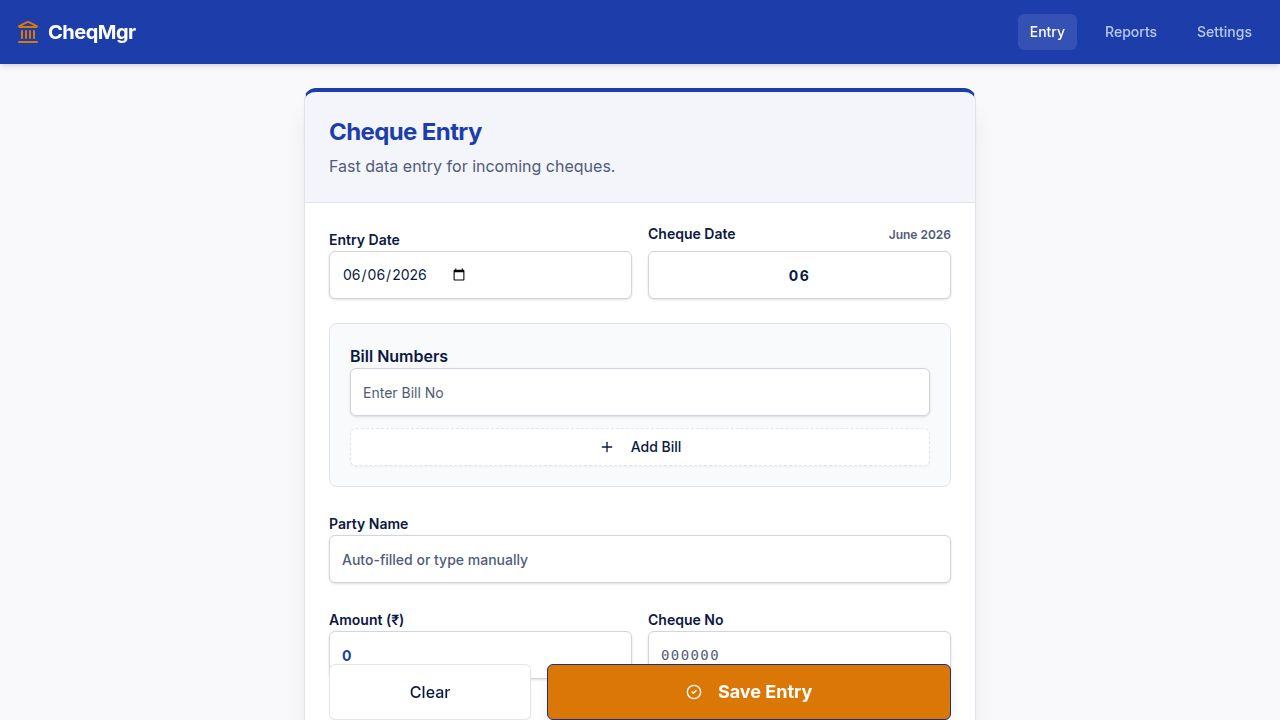
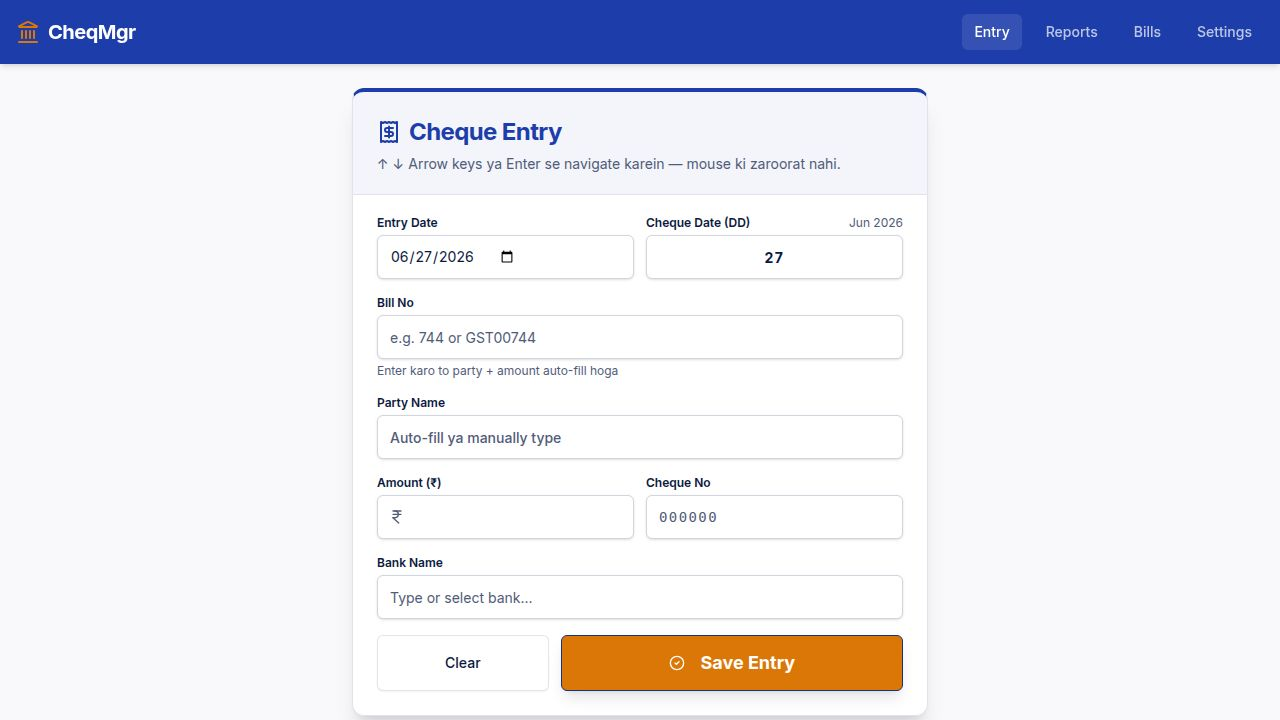
Add discrepancy tracking for cheque entries and improve import functionality
Introduces the `discrepancyAmt` field to cheque entries and enhances the import process in `Settings.tsx` by splitting amounts proportionally and batching Supabase lookups. Updates API routes and TypeScript definitions to support the new field. Adds visual highlighting for discrepant entries on the Reports page.

Replit-Commit-Author: Agent
Replit-Commit-Session-Id: fb7fd8ad-ce41-4812-8eef-e34c056f3a73
Replit-Commit-Checkpoint-Type: full_checkpoint
Replit-Commit-Event-Id: a9b0fe0a-8ae3-4242-99d4-801ea9e3cda0
Replit-Commit-Screenshot-Url: https://storage.googleapis.com/screenshot-production-us-central1/d17cd913-0599-41b9-90f8-fe2f33843357/fb7fd8ad-ce41-4812-8eef-e34c056f3a73/RsZwXqk
Replit-Helium-Checkpoint-Created: true

diff --git a/artifacts/cheque-manager/src/pages/Settings.tsx b/artifacts/cheque-manager/src/pages/Settings.tsx
@@ -1,4 +1,6 @@
 import { useState, useRef } from "react";
+import { format } from "date-fns";
+import { batchLookupOutstandingAmounts, updateBillFromImport } from "@/lib/supabase";
 import { useGetSettings, useUpdateSettings, useListBanks, useCreateBank, useDeleteBank, getListBanksQueryKey } from "@workspace/api-client-react";
 import { useQueryClient } from "@tanstack/react-query";
 import { Card, CardContent, CardHeader, CardTitle, CardDescription } from "@/components/ui/card";
@@ -177,7 +179,31 @@ export default function Settings() {
     }
   };
 
-  const saveEntry = async (entry: ParsedImportEntry): Promise<'saved' | 'duplicate' | 'error'> => {
+  const splitAmounts = (
+    billNos: string[],
+    chequeTotal: number,
+    outstandingMap: Map<string, number>
+  ): { billNo: string; amount: number }[] => {
+    if (billNos.length === 1) return [{ billNo: billNos[0], amount: chequeTotal }];
+    const outs = billNos.map(b => ({ billNo: b, outstanding: outstandingMap.get(b) ?? 0 }));
+    const totalOut = outs.reduce((s, b) => s + b.outstanding, 0);
+    let rem = chequeTotal;
+    return outs.map((b, i) => {
+      if (i === outs.length - 1) return { billNo: b.billNo, amount: Math.round(rem * 100) / 100 };
+      const amt = totalOut > 0
+        ? Math.round(chequeTotal * b.outstanding / totalOut * 100) / 100
+        : Math.round(chequeTotal / outs.length * 100) / 100;
+      rem -= amt;
+      return { billNo: b.billNo, amount: amt };
+    });
+  };
+
+  const saveSingleBillEntry = async (
+    entry: ParsedImportEntry,
+    billNo: string,
+    amount: number,
+    discrepancyAmt: number
+  ): Promise<'saved' | 'duplicate' | 'error'> => {
     try {
       const res = await fetch('/api/cheque-entries', {
         method: 'POST',
@@ -186,10 +212,11 @@ export default function Settings() {
           entryDate: entry.entryDate,
           chequeDate: entry.chequeDate,
           partyName: entry.partyName,
-          billNos: entry.billNos,
-          chequeAmount: entry.chequeAmount,
+          billNos: [billNo],
+          chequeAmount: amount,
           chequeNo: entry.chequeNo,
           bankName: entry.bankName,
+          discrepancyAmt,
         }),
       });
       if (res.status === 409) return 'duplicate';
@@ -208,19 +235,46 @@ export default function Settings() {
 
     const result: ImportResult = { saved: 0, duplicates: 0, errors: 0, banksCreated: 0 };
     const existingBankNames = new Set<string>((banks ?? []).map((b: { name: string }) => b.name.toUpperCase()));
-    const total = importPreview.entries.length;
+    const entries = importPreview.entries;
+    const total = entries.length;
     setImportTotal(total);
 
+    const allBillNos = [...new Set(entries.flatMap(e => e.billNos))];
+    let outstandingMap = new Map<string, number>();
+    try {
+      outstandingMap = await batchLookupOutstandingAmounts(allBillNos);
+    } catch (e) {
+      toast({ variant: "destructive", title: "Supabase lookup failed", description: String(e) });
+    }
+
     for (let i = 0; i < total; i++) {
-      const entry = importPreview.entries[i];
+      const entry = entries[i];
 
       const created = await ensureBankExists(entry.bankName, existingBankNames);
       if (created) result.banksCreated++;
 
-      const status = await saveEntry(entry);
-      if (status === 'saved') result.saved++;
-      else if (status === 'duplicate') result.duplicates++;
-      else result.errors++;
+      const splits = splitAmounts(entry.billNos, entry.chequeAmount, outstandingMap);
+      const totalOut = entry.billNos.reduce((s, b) => s + (outstandingMap.get(b) ?? 0), 0);
+      const discrepancyAmt = Math.round((entry.chequeAmount - totalOut) * 100) / 100;
+
+      for (const split of splits) {
+        const status = await saveSingleBillEntry(entry, split.billNo, split.amount, discrepancyAmt);
+        if (status === 'saved') {
+          result.saved++;
+          try {
+            await updateBillFromImport(split.billNo, {
+              cheque_date: entry.chequeDate,
+              bank_name: entry.bankName,
+              cheque_no: entry.chequeNo,
+              cheque_amount: split.amount,
+              collected_amount: split.amount,
+              payment_mode: 'Cheque',
+              payment_date: format(new Date(entry.entryDate), 'dd/MM/yyyy'),
+            });
+          } catch { /* Supabase update failures are non-fatal */ }
+        } else if (status === 'duplicate') result.duplicates++;
+        else result.errors++;
+      }
 
       setImportProgress(i + 1);
     }

diff --git a/artifacts/cheque-manager/src/lib/supabase.ts b/artifacts/cheque-manager/src/lib/supabase.ts
@@ -82,3 +82,35 @@ export async function updateBillInSupabase(
     .eq('bill_no', billNo);
   if (error) throw error;
 }
+
+export async function batchLookupOutstandingAmounts(billNos: string[]): Promise<Map<string, number>> {
+  if (billNos.length === 0) return new Map();
+  const { data } = await supabase
+    .from('bills')
+    .select('bill_no, outstanding_amount')
+    .in('bill_no', billNos);
+  const map = new Map<string, number>();
+  for (const row of data ?? []) {
+    if (row.bill_no != null) map.set(String(row.bill_no), row.outstanding_amount ?? 0);
+  }
+  return map;
+}
+
+export async function updateBillFromImport(
+  billNo: string,
+  data: {
+    cheque_date: string;
+    bank_name: string;
+    cheque_no: string;
+    cheque_amount: number;
+    collected_amount: number;
+    payment_mode: string;
+    payment_date: string;
+  }
+): Promise<void> {
+  const { error } = await supabase
+    .from('bills')
+    .update(data)
+    .eq('bill_no', billNo);
+  if (error) console.warn('Supabase bill update warning:', billNo, error.message);
+}

diff --git a/artifacts/cheque-manager/src/pages/Reports.tsx b/artifacts/cheque-manager/src/pages/Reports.tsx
@@ -18,6 +18,7 @@ interface GroupedRow {
   billNos: string;
   partyNames: string;
   rowCount: number;
+  isDiscrepant: boolean;
 }
 
 const fmtDate = (d: string | null) => {
@@ -56,6 +57,11 @@ const groupRows = (rows: SupaBill[]): GroupedRow[] => {
       const totalAmt = grp.reduce((s, r) => s + Number(r.cheque_amount ?? 0), 0);
       const billNos = grp.map(r => extractBillNum(r.bill_no)).filter(Boolean).join("+");
       const parties = [...new Set(grp.map(r => r.party_name).filter(Boolean))].join(", ");
+      const isDiscrepant = grp.some(r =>
+        r.outstanding_amount != null &&
+        r.cheque_amount != null &&
+        Math.abs(Number(r.cheque_amount) - Number(r.outstanding_amount)) > 0.01
+      );
       return {
         chequeDate: first.cheque_date,
         chequeNo: first.cheque_no ?? "—",
@@ -64,6 +70,7 @@ const groupRows = (rows: SupaBill[]): GroupedRow[] => {
         billNos,
         partyNames: parties,
         rowCount: grp.length,
+        isDiscrepant,
       };
     })
     .sort((a, b) => {
@@ -103,7 +110,7 @@ export default function Reports() {
       while (true) {
         let q = supabase
           .from("bills")
-          .select("cheque_no,cheque_date,bank_name,cheque_amount,bill_no,party_name,bill_net_amt,payment_mode,payment_date")
+          .select("cheque_no,cheque_date,bank_name,cheque_amount,bill_no,party_name,bill_net_amt,payment_mode,payment_date,outstanding_amount")
           .not("cheque_no", "is", null)
           .ilike("payment_mode", "%cheque%")
           .order("cheque_date", { ascending: false })
@@ -117,7 +124,7 @@ export default function Reports() {
 
         const { data, error } = await q;
         if (error) throw error;
-        allRows = allRows.concat(data ?? []);
+        allRows = allRows.concat((data ?? []) as SupaBill[]);
         if (!data || data.length < PAGE_SIZE) break;
         from += PAGE_SIZE;
       }
@@ -280,7 +287,7 @@ export default function Reports() {
                 </TableHeader>
                 <TableBody>
                   {grouped.map((row, i) => (
-                    <TableRow key={i} className="print:border-b print:border-gray-400">
+                    <TableRow key={i} className={`print:border-b print:border-gray-400 ${row.isDiscrepant ? "text-red-600 font-semibold bg-red-50 print:text-red-700" : ""}`}>
                       <TableCell className="py-2 print:py-1">{fmtDate(row.chequeDate)}</TableCell>
                       <TableCell className="py-2 print:py-1 text-right font-bold text-primary print:text-black">
                         {fmtINR(row.chequeAmt)}

diff --git a/artifacts/api-server/src/routes/cheques.ts b/artifacts/api-server/src/routes/cheques.ts
@@ -65,6 +65,7 @@ router.get("/cheque-entries", async (req, res): Promise<void> => {
   const result = entries.map((e) => ({
     ...e,
     chequeAmount: parseFloat(e.chequeAmount),
+    discrepancyAmt: e.discrepancyAmt != null ? parseFloat(e.discrepancyAmt) : 0,
     updatedAt: e.updatedAt ? e.updatedAt.toISOString() : null,
     createdAt: e.createdAt.toISOString(),
   }));
@@ -113,12 +114,14 @@ router.post("/cheque-entries", async (req, res): Promise<void> => {
     .values({
       ...parsed.data,
       chequeAmount: String(parsed.data.chequeAmount),
+      discrepancyAmt: parsed.data.discrepancyAmt != null ? String(parsed.data.discrepancyAmt) : "0",
     })
     .returning();
 
   res.status(201).json({
     ...entry,
     chequeAmount: parseFloat(entry.chequeAmount),
+    discrepancyAmt: entry.discrepancyAmt != null ? parseFloat(entry.discrepancyAmt) : 0,
     updatedAt: entry.updatedAt ? entry.updatedAt.toISOString() : null,
     createdAt: entry.createdAt.toISOString(),
   });

diff --git a/artifacts/cheque-manager/src/pages/Home.tsx b/artifacts/cheque-manager/src/pages/Home.tsx
@@ -464,7 +464,7 @@ export default function Home() {
               className="h-11 bg-white"
             />
             <datalist id="bank-list">
-              {banks?.map(b => <option key={b.id} value={b.name} />)}
+              {banks?.map((b: { id: number; name: string }) => <option key={b.id} value={b.name} />)}
             </datalist>
           </div>
 

diff --git a/lib/db/src/schema/chequeEntries.ts b/lib/db/src/schema/chequeEntries.ts
@@ -11,6 +11,7 @@ export const chequeEntriesTable = pgTable("cheque_entries", {
   chequeAmount: numeric("cheque_amount", { precision: 12, scale: 2 }).notNull(),
   chequeNo: text("cheque_no").notNull(),
   bankName: text("bank_name").notNull(),
+  discrepancyAmt: numeric("discrepancy_amt", { precision: 12, scale: 2 }).default("0"),
   createdAt: timestamp("created_at", { withTimezone: true }).notNull().defaultNow(),
   updatedAt: timestamp("updated_at", { withTimezone: true }),
 });